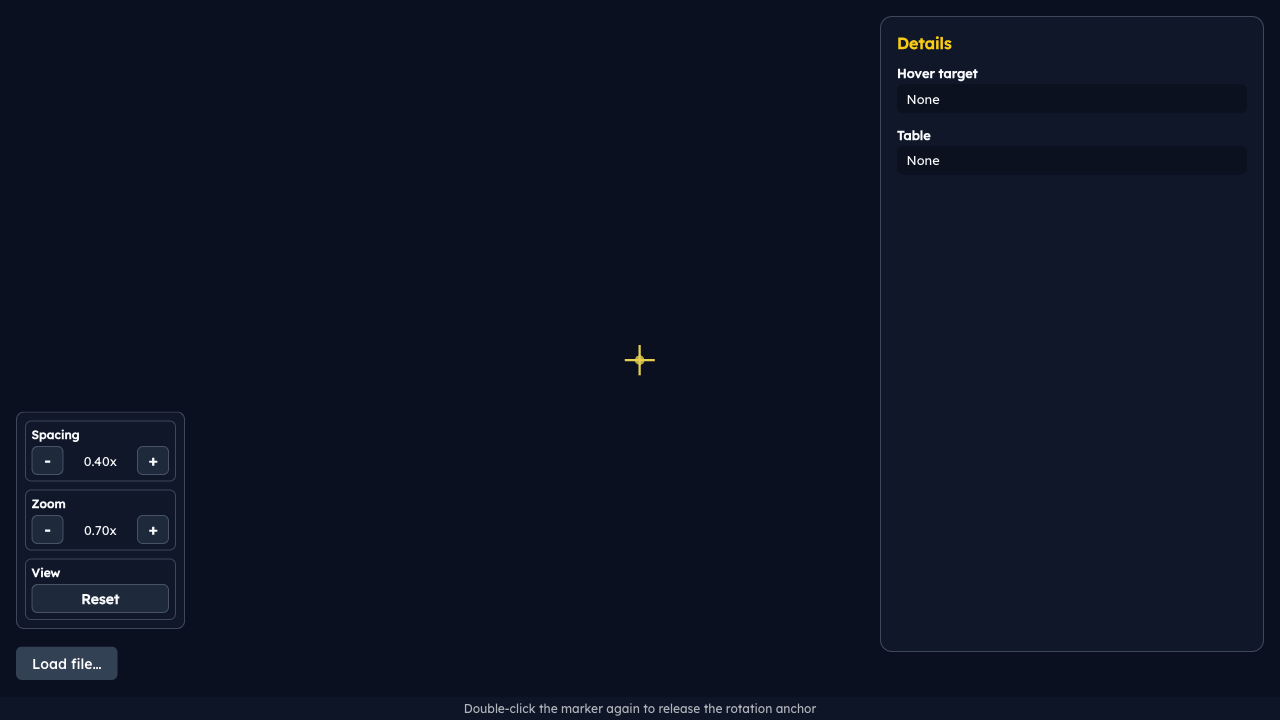
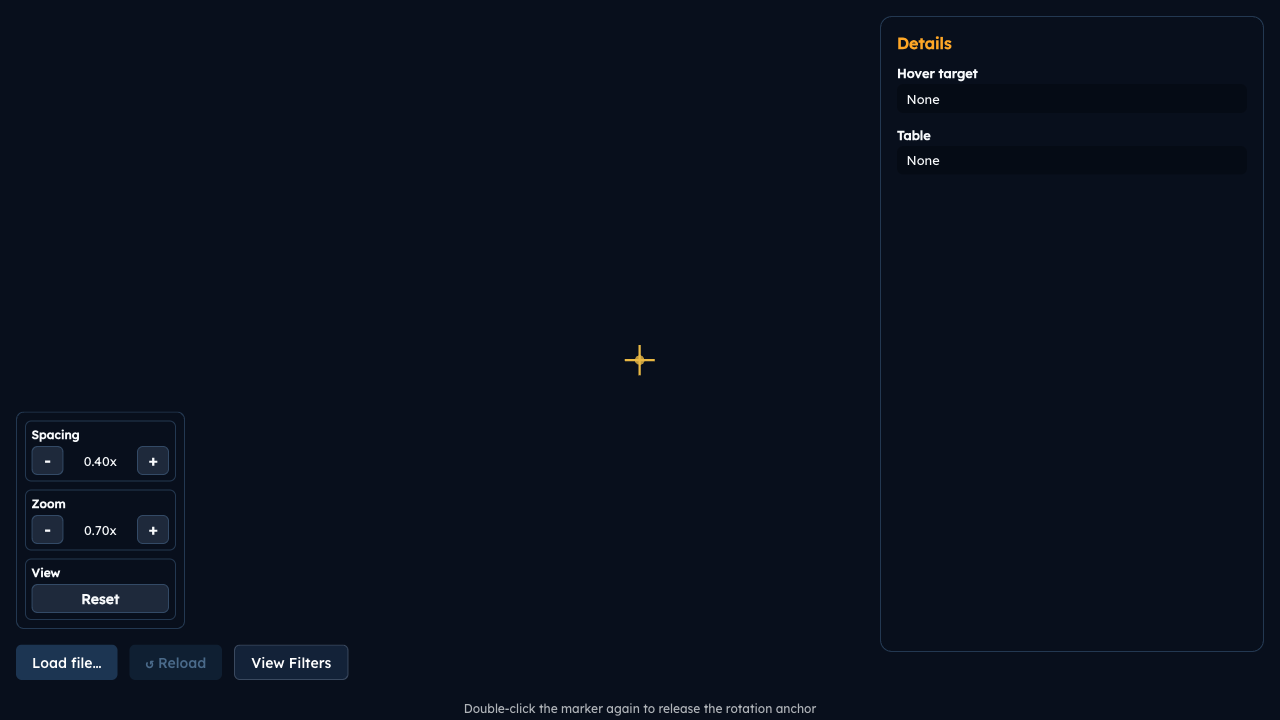
fix: remove PermissionState type cast in E2E spec (no-undef lint error)
Also add test-evidence screenshots for AT-1 through AT-10 and view
filter modes, and update PROJECT_OVERVIEW.md with Feature 17 additions
(group filter controls, boundary toggle, reload button).

All quality gates pass: lint, typecheck, 194 unit/integration tests,
19/19 E2E tests in headed Chromium.

diff --git a/tests/visual/viewFilterGroups.spec.ts b/tests/visual/viewFilterGroups.spec.ts
@@ -225,8 +225,8 @@ test('AT-8: reload picks up changed file content via mocked File System Access A
         },
         // Minimal FileSystemFileHandle shape
         isSameEntry: async () => false,
-        queryPermission: async () => 'granted' as PermissionState,
-        requestPermission: async () => 'granted' as PermissionState,
+        queryPermission: async () => 'granted',
+        requestPermission: async () => 'granted',
         createWritable: async () => { throw new Error('not implemented'); },
       };
 
@@ -267,8 +267,8 @@ test('AT-9: reload resets filters to defaults', async ({ page }) => {
         name: 'schema.dbml',
         getFile: async () => makeFile(fileContent),
         isSameEntry: async () => false,
-        queryPermission: async () => 'granted' as PermissionState,
-        requestPermission: async () => 'granted' as PermissionState,
+        queryPermission: async () => 'granted',
+        requestPermission: async () => 'granted',
         createWritable: async () => { throw new Error('not implemented'); },
       };
       // eslint-disable-next-line @typescript-eslint/no-explicit-any
@@ -317,8 +317,8 @@ test('AT-10: reload failure shows error banner and preserves prior scene', async
           return makeFile(fileContent);
         },
         isSameEntry: async () => false,
-        queryPermission: async () => 'granted' as PermissionState,
-        requestPermission: async () => 'granted' as PermissionState,
+        queryPermission: async () => 'granted',
+        requestPermission: async () => 'granted',
         createWritable: async () => { throw new Error('not implemented'); },
       };
       // eslint-disable-next-line @typescript-eslint/no-explicit-any

diff --git a/PROJECT_OVERVIEW.md b/PROJECT_OVERVIEW.md
@@ -63,11 +63,11 @@ DBML text
 | ----------------- | -------------------------------------------------- | ---------------------------------------------------------------------------------------------------------------------------------------------------------------------------------------------------------------------------------------------------------------------------------------------------------------------------------------------------------------------------------------------------------------------------------------------------------------------------------------------------------------------------------------------------------------------------------------------------------------------------------------------- |
 | **Parser**        | `@dbml/core`                                       | Tokenise and validate DBML; produce a typed JS object graph (`Database`, `Table`, `Field`, `Ref`). Extracts optional `note` strings on both `ParsedTable` and `ParsedColumn`. Also extracts DBML color style attributes: `Table [headercolor]`, `Ref [color]`, and `TableGroup [color]`; applies precedence rules (table-local > last injected partial > undefined). Produces `ParsedSchema.tableGroups` with group color metadata. Extracts `ParsedSchema.projectNote?: string` from the DBML `Project { Note: '...' }` block; trimmed, treated as `undefined` when empty.                                                                   |
 | **Graph model**   | Plain TypeScript                                   | Transform the parser output into a framework-agnostic node/edge graph suitable for layout. `ParsedColumn.note` and `ParsedTable.note` carry annotation text. `ParsedTable.headerColor`, `ParsedRef.color`, and `ParsedTableGroup.color` carry resolved DBML color tokens.                                                                                                                                                                                                                                                                                                                                                                      |
-| **View filters**  | React state + parser helpers                       | `App` owns `FilterState` (`fieldDetailMode` + `visibleTableIds`) and resets it whenever a new schema is loaded. `defaultFilterState(schema)` chooses `full` for schemas with up to 30 tables and `table-only` above that threshold. `applyFilters(schema, filterState)` removes hidden tables and any refs whose endpoints are not both visible before the schema reaches simulation/rendering. `isFilterActive` drives the toolbar indicator for non-default filter combinations.                                                                                                                                             |
+| **View filters**  | React state + parser helpers                       | `App` owns `FilterState` (`fieldDetailMode` + `visibleTableIds` + `visibleGroupIds` + `showGroupBoundaries`) and resets it whenever a new schema is loaded. `defaultFilterState(schema)` chooses `full` for schemas with up to 30 tables and `table-only` above that threshold; all groups start visible. `applyFilters(schema, filterState)` removes hidden tables (per-table and group-level visibility) and any refs whose endpoints are not both visible. `isFilterActive` drives the toolbar indicator. Group filter checkboxes hide/show all member tables atomically while preserving per-table overrides. A `Show TableGroup Boundaries` toggle controls `showGroupBoundaries`.                                                                                                                              |
 | **Layout engine** | `d3-force-3d`                                      | Two-phase hierarchical layout. Phase 1 (`src/layout/groupLayout.ts`): builds `TableGroupDescriptor` objects from the parsed schema, places named groups in non-overlapping world-space regions (`placeGroups`), and seeds each table near its group center (`computeGroupSeedPositions`). Phase 2: runs a 3D force-directed simulation with a weak group-cohesion force that keeps grouped tables clustered together during the interactive live simulation (`useForceSimulation`). Group boundary bounding boxes carry the resolved group color from `ParsedSchema.tableGroups`.                                                              |
 | **Renderer**      | React Three Fiber (`@react-three/fiber`), Three.js | Declarative React component tree that maps graph nodes to `<mesh>` table cards and graph edges to curved routed link lines with endpoint fan-out. `TableGroupBoundary` renders a translucent box + wireframe edges + floating label around each DBML `TableGroup`, tinted by the group's resolved color. `TableCard` applies DBML `headercolor` to the card header mesh. `RelationshipLink3D` applies DBML `Ref [color]` to the tube material. Color resolution and fallback logic lives in `src/renderer/colorUtils.ts`. Includes `NotePanel` (billboarding popup for field/table notes) and `NoteConnector` (arc line from anchor to panel). `ProjectNotesCard` is a DOM overlay panel (not a 3D object) that renders the DBML `Project.Note` as sanitized Markdown (via `react-markdown` + `rehype-sanitize`); it supports minimize/expand and appears only when the schema has a non-empty project note. The renderer also respects `FieldDetailMode`: `full`, `ref-fields-only`, or `table-only`, which determines whether cards show all columns, only relationship columns, or only the table header. |
 | **Controls**      | `@react-three/drei`                                | Orbit controls, camera damping, label sprites, and click-to-focus interaction.                                                                                                                                                                                                                                                                                                                                                                                                                                                                                                                                                                 |
-| **UI shell**      | React + Tailwind CSS                               | File upload, DBML text editor panel, HUD controls outside the canvas, and the `View Filters` modal workflow. The toolbar exposes a `View Filters` button with an active-state indicator. `ViewFiltersDialog` lets users switch between the three field-detail modes, select/unselect all tables, and toggle individual table visibility with immediate effect on the scene.                                                                                                                                                                                                                                                                   |
+| **UI shell**      | React + Tailwind CSS                               | File upload (input fallback + File System Access API), DBML text editor panel, HUD controls outside the canvas, and the `View Filters` modal workflow. The toolbar exposes a `View Filters` button with an active-state indicator and a `Reload current file` button (enabled only when a file was loaded via the File System Access API). `ViewFiltersDialog` lets users switch between the three field-detail modes, select/unselect all tables, toggle individual table visibility, filter by TableGroup, toggle the Ungrouped set, and show/hide group boundaries — all with immediate effect on the scene.                                                                                                                |
 
 ### Directory Layout (target)
 
